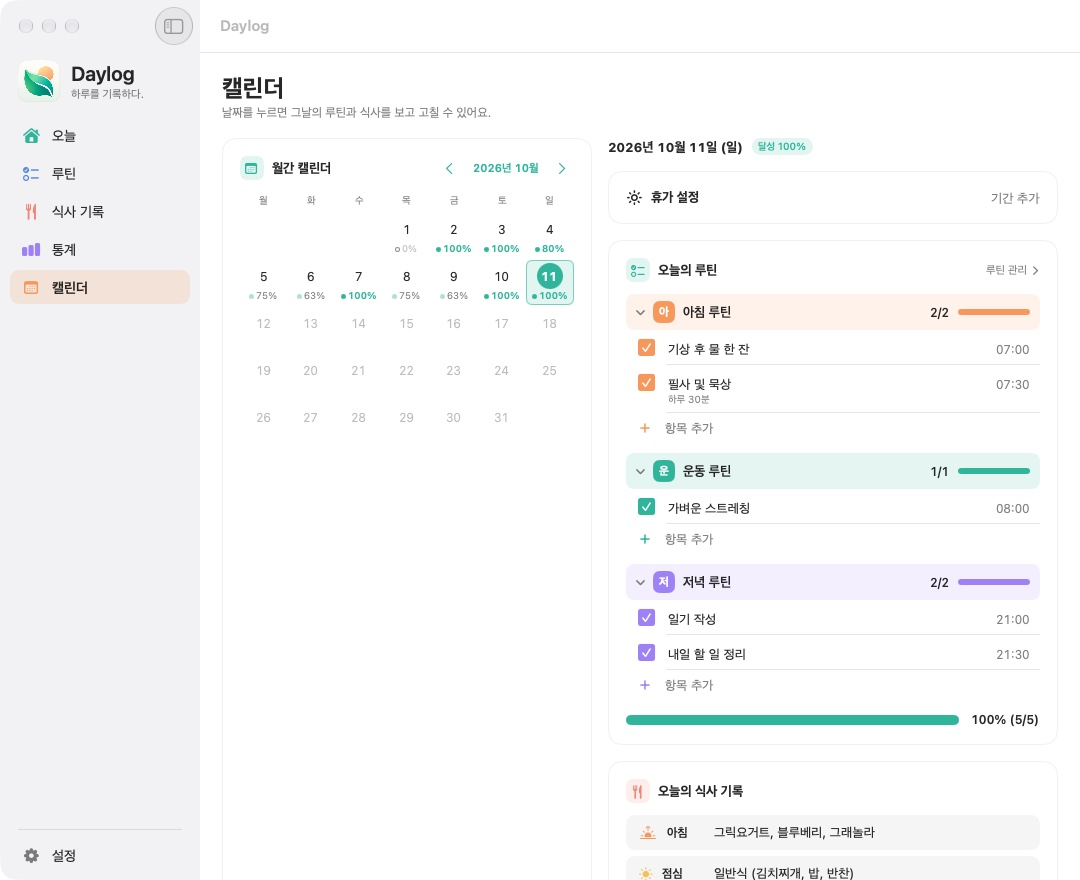
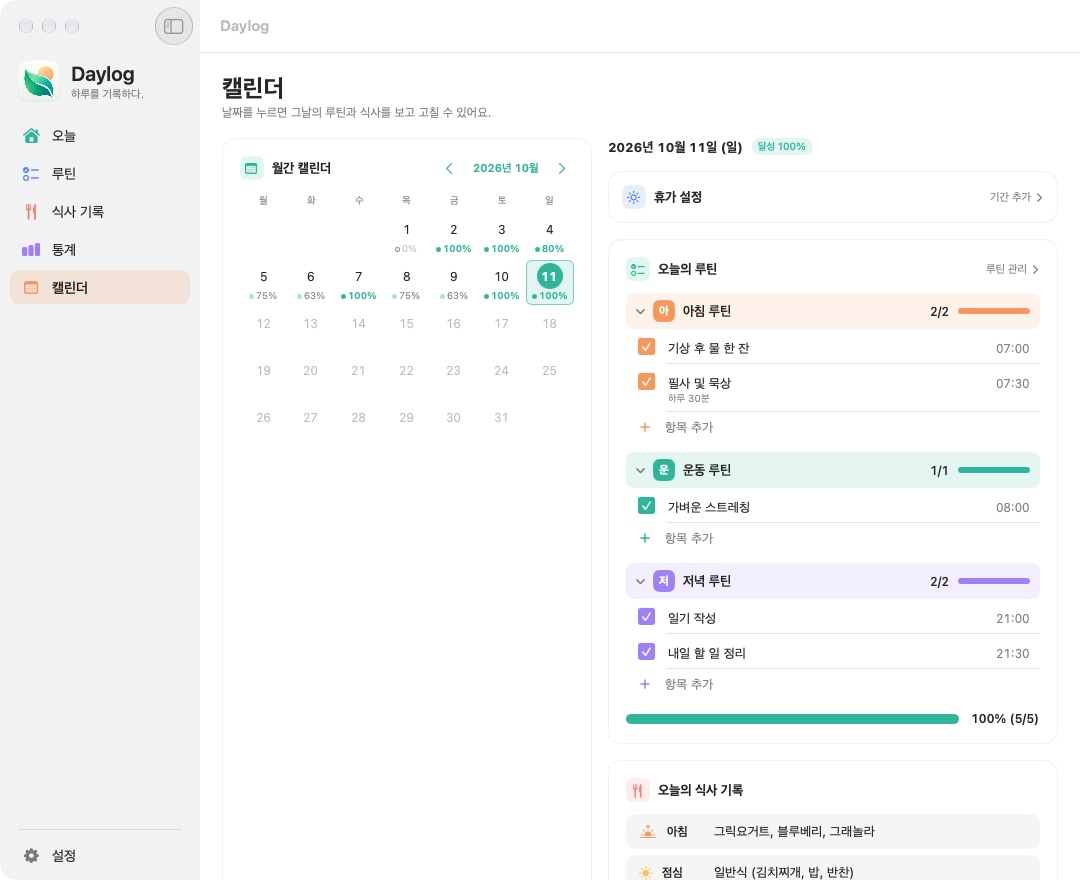
docs: README for Mac, iPhone, and iPad with fresh screenshots
- 소개·배지·기능 표에 iPhone·iPad(위젯, iCloud)와 휴가 D-day, 시작 요일을 반영
- 설치를 Mac(DMG)과 iPhone·iPad(TestFlight 테스트 중)로 나눔
- 버전 기록을 iOS 1.0.0과 Mac 1.5.x로 분리
- Mac 화면을 다시 찍고 iPhone 화면 3장 추가(예시 데이터)

diff --git a/README.md b/README.md
@@ -6,17 +6,19 @@
 
 <p align="center">
   <b>하루를 기록하다.</b><br>
-  루틴을 체크하고 식사를 적는, 가볍고 예쁜 Mac 앱
+  루틴을 체크하고 식사를 적는, 가볍고 예쁜 앱<br>
+  <sub>Mac · iPhone · iPad</sub>
 </p>
 
 <p align="center">
   <a href="https://github.com/gyu-bin/Daylog/releases/latest"><img src="https://img.shields.io/github/v/release/gyu-bin/Daylog?color=43BFA6&label=%EC%B5%9C%EC%8B%A0%20%EB%B2%84%EC%A0%84" alt="최신 버전"></a>
   <img src="https://img.shields.io/badge/macOS-14%2B-6395E8" alt="macOS 14 이상">
+  <img src="https://img.shields.io/badge/iOS%20%C2%B7%20iPadOS-17%2B-EF8B80" alt="iOS·iPadOS 17 이상">
   <img src="https://img.shields.io/badge/iCloud-%EB%8F%99%EA%B8%B0%ED%99%94-A78BFA" alt="iCloud 동기화">
 </p>
 
 <p align="center">
-  <a href="https://github.com/gyu-bin/Daylog/releases/latest"><b>⬇ 내려받기</b></a>
+  <a href="https://github.com/gyu-bin/Daylog/releases/latest"><b>⬇ Mac용 내려받기</b></a>
 </p>
 
 <p align="center">
@@ -34,11 +36,11 @@
   <tr><td nowrap>📅 <b>캘린더</b></td><td>날짜를 누르면 그날의 루틴과 식사를 보고 고칠 수 있어요.</td></tr>
   <tr><td nowrap>📈 <b>통계</b></td><td>달성률 추이, 연속 달성일, 활동 히트맵, 지난 기간과의 비교까지.</td></tr>
   <tr><td nowrap>🧩 <b>내 맘대로 대시보드</b></td><td>카드를 끌어서 두 열에 배치하고, 안 쓰는 카드는 숨겨요.</td></tr>
-  <tr><td nowrap>🧭 <b>메뉴 막대</b></td><td>창을 열지 않고 메뉴 막대에서 오늘의 루틴을 체크해요.</td></tr>
+  <tr><td nowrap>🧭 <b>메뉴 막대 · 위젯</b></td><td>Mac은 메뉴 막대에서, iPhone·iPad는 홈 화면 위젯에서 앱을 열지 않고 체크해요.</td></tr>
   <tr><td nowrap>🔔 <b>루틴 알림</b></td><td>정해 둔 시간에 알려 주고, 알림에서 바로 <b>완료</b>를 누를 수 있어요.</td></tr>
-  <tr><td nowrap>🏖 <b>휴가 모드</b></td><td>쉬는 날은 통계에서 빠지고, 연속 달성 기록은 그대로 이어져요.</td></tr>
+  <tr><td nowrap>🏖 <b>휴가 모드</b></td><td>달력에서 기간을 골라 두면 그날은 통계에서 빠지고, 연속 달성 기록은 그대로 이어져요. 다음 휴가까지 D-day도 보여 줘요.</td></tr>
   <tr><td nowrap>📦 <b>가져오기 · 내보내기</b></td><td>기록을 CSV·JSON 파일로 내보내고, 루틴을 파일에서 가져와요.</td></tr>
-  <tr><td nowrap>☁ <b>iCloud 동기화</b></td><td>같은 Apple 계정의 Mac끼리 기록을 맞춰요.</td></tr>
+  <tr><td nowrap>☁ <b>iCloud 동기화</b></td><td>같은 Apple 계정의 Mac·iPhone·iPad가 기록을 맞춰요.</td></tr>
 </table>
 
 <br>
@@ -49,19 +51,29 @@
   <img src="docs/screenshots/routines-light.jpg" width="32.5%" alt="루틴 관리">
 </p>
 
+<p align="center">
+  <img src="docs/screenshots/iphone-today.jpg" width="24%" alt="iPhone 오늘 화면">
+  <img src="docs/screenshots/iphone-routines.jpg" width="24%" alt="iPhone 루틴 관리">
+  <img src="docs/screenshots/iphone-vacation.jpg" width="24%" alt="iPhone 휴가 기간 선택">
+</p>
+
 <p align="center"><sub>스크린샷 속 내용은 예시 데이터예요.</sub></p>
 
 <br>
 
 ## 📥 설치하기
 
+**Mac**
+
 1. [**최신 버전**](https://github.com/gyu-bin/Daylog/releases/latest)에서 `Daylog-…-macOS.dmg`를 받아요.
 2. 열어서 **Daylog**를 **Applications** 폴더로 끌어다 놓아요.
 3. Daylog를 실행해요. 처음엔 "인터넷에서 받은 앱"이라는 안내가 나오는데, **열기**를 누르면 돼요.
 
-macOS 14 이상이면 되고, 다른 프로그램은 필요 없어요.
+macOS 14 이상이면 되고, 다른 프로그램은 필요 없어요. **업데이트**할 때는 Daylog를 끄고, 새 버전을 받아 같은 방법으로 덮어쓰면 돼요. 기록은 그대로 남아요.
 
-**업데이트**할 때는 Daylog를 끄고, 새 버전을 받아 같은 방법으로 덮어쓰면 돼요. 기록은 그대로 남아요.
+**iPhone · iPad**
+
+지금은 TestFlight로 테스트하고 있어요. App Store 공개는 준비 중이에요. iOS·iPadOS 17 이상에서 동작해요.
 
 <br>
 
@@ -73,8 +85,8 @@ macOS 14 이상이면 되고, 다른 프로그램은 필요 없어요.
 **루틴을 지우면 예전 기록도 사라지나요?**<br>
 아니요. 지난 날짜의 기록과 통계는 그대로 남아요.
 
-**다른 Mac에서도 같은 기록을 보고 싶어요.**<br>
-두 Mac에 같은 방법(위의 DMG)으로 설치하고, 같은 Apple 계정으로 iCloud에 로그인하면 돼요. 연결 상태는 설정에서 볼 수 있어요.
+**다른 기기에서도 같은 기록을 보고 싶어요.**<br>
+같은 Apple 계정으로 iCloud에 로그인하면 돼요. Mac은 위의 DMG로 설치한 앱이어야 해요. 연결 상태는 설정에서 볼 수 있어요.
 
 **알림이 안 와요.**<br>
 설정에서 **루틴 알림**을 켜고, 루틴 편집에서 **예정 시간**을 정해 주세요. 알림은 Mac마다 따로 켜요.
@@ -82,8 +94,11 @@ macOS 14 이상이면 되고, 다른 프로그램은 필요 없어요.
 **창을 닫았는데 앱이 계속 켜져 있어요.**<br>
 메뉴 막대에서 바로 체크할 수 있게 남아 있는 거예요. 끄려면 메뉴 막대 아이콘에서 **Daylog 종료**를 누르고, 아이콘이 필요 없으면 설정의 **메뉴 막대에 Daylog 표시**를 꺼 주세요.
 
+**달력을 일요일부터 보고 싶어요.**<br>
+설정의 **캘린더 → 한 주의 시작**에서 바꿀 수 있어요. 기기마다 따로 정해요.
+
 **iPhone이나 iPad에서도 쓸 수 있나요?**<br>
-준비하고 있어요. 아직 App Store에는 없어요.
+네, 같은 기능의 앱이 있어요. 지금은 TestFlight 테스트 단계라 App Store에는 아직 없어요.
 
 <br>
 
@@ -117,6 +132,8 @@ xcodebuild -project Daylog.xcodeproj -scheme DaylogiOS -derivedDataPath build-io
   -destination 'platform=iOS Simulator,name=iPhone 17 Pro' build
 ```
 
+TestFlight에 올리는 명령은 [진행 상태](docs/PROGRESS.md)의 "TestFlight 준비"에 있어요.
+
 **배포판(DMG) 만들기**
 
 ```bash
@@ -141,7 +158,7 @@ Tools/update.sh
 
 - DMG 안의 앱은 Apple 공증을 받았지만, DMG 파일 자체는 서명되지 않았어요.
 - 서명 설정은 만든 사람의 Apple 계정에 맞춰져 있어요. 다른 계정으로 빌드하려면 Xcode의 Signing & Capabilities에서 Team과 Bundle Identifier를 바꾸세요.
-- iPhone·iPad 앱과 홈 화면 위젯은 시뮬레이터에서만 확인했어요. 아직 확인하지 못한 항목은 [진행 상태](docs/PROGRESS.md)에 적어 두었어요.
+- iPhone·iPad 앱은 TestFlight로 실제 기기 테스트를 시작한 단계예요. 아직 확인하지 못한 항목은 [진행 상태](docs/PROGRESS.md)에 적어 두었어요.
 
 **폴더 구조**
 
@@ -163,6 +180,7 @@ Tools/            설치·배포 스크립트
 
 - [설계 결정과 그 이유](ARCHITECTURE.md)
 - [진행 상태와 다음 작업](docs/PROGRESS.md)
+- [제품 UX 점검](docs/PRODUCT_UX_AUDIT.md) · [디자인 정리](docs/DESIGN_REFINEMENT.md)
 - [개발 로드맵](docs/DEVELOPMENT_PLAN.md)
 - [자동 업데이트 켜는 절차](docs/UPDATES.md)
 
@@ -172,9 +190,17 @@ Tools/            설치·배포 스크립트
 
 ## 📝 버전 기록
 
+**iPhone · iPad**
+
 | 버전 | 달라진 점 |
 |---|---|
-| **1.5.1** | 휴가 기간 달력, 시트·설정 화면 정리, 메뉴 막대 아이콘 새 디자인 |
+| **1.0.0** | 첫 버전(TestFlight). Mac과 같은 기록·통계, 홈 화면 위젯, 루틴 알림 |
+
+**Mac**
+
+| 버전 | 달라진 점 |
+|---|---|
+| **1.5.1** | 휴가 기간 달력과 휴가 카드(D-day·휴가 중), 캘린더 시작 요일, 시트·설정 화면 정리, 메뉴 막대 아이콘 새 디자인 |
 | 1.5.0 | 두 열 대시보드와 카드 편집, 메뉴 막대 빠른 체크, 루틴 알림, 휴가 모드, 가져오기·내보내기, 기간 비교 통계 |
 | 1.4.0 | 루틴 관리와 편집 화면 새 단장, 식사 기록·캘린더 메뉴 |
 | 1.3.5 | iCloud 환경을 옮길 때 기록을 다시 올리는 기능 |
